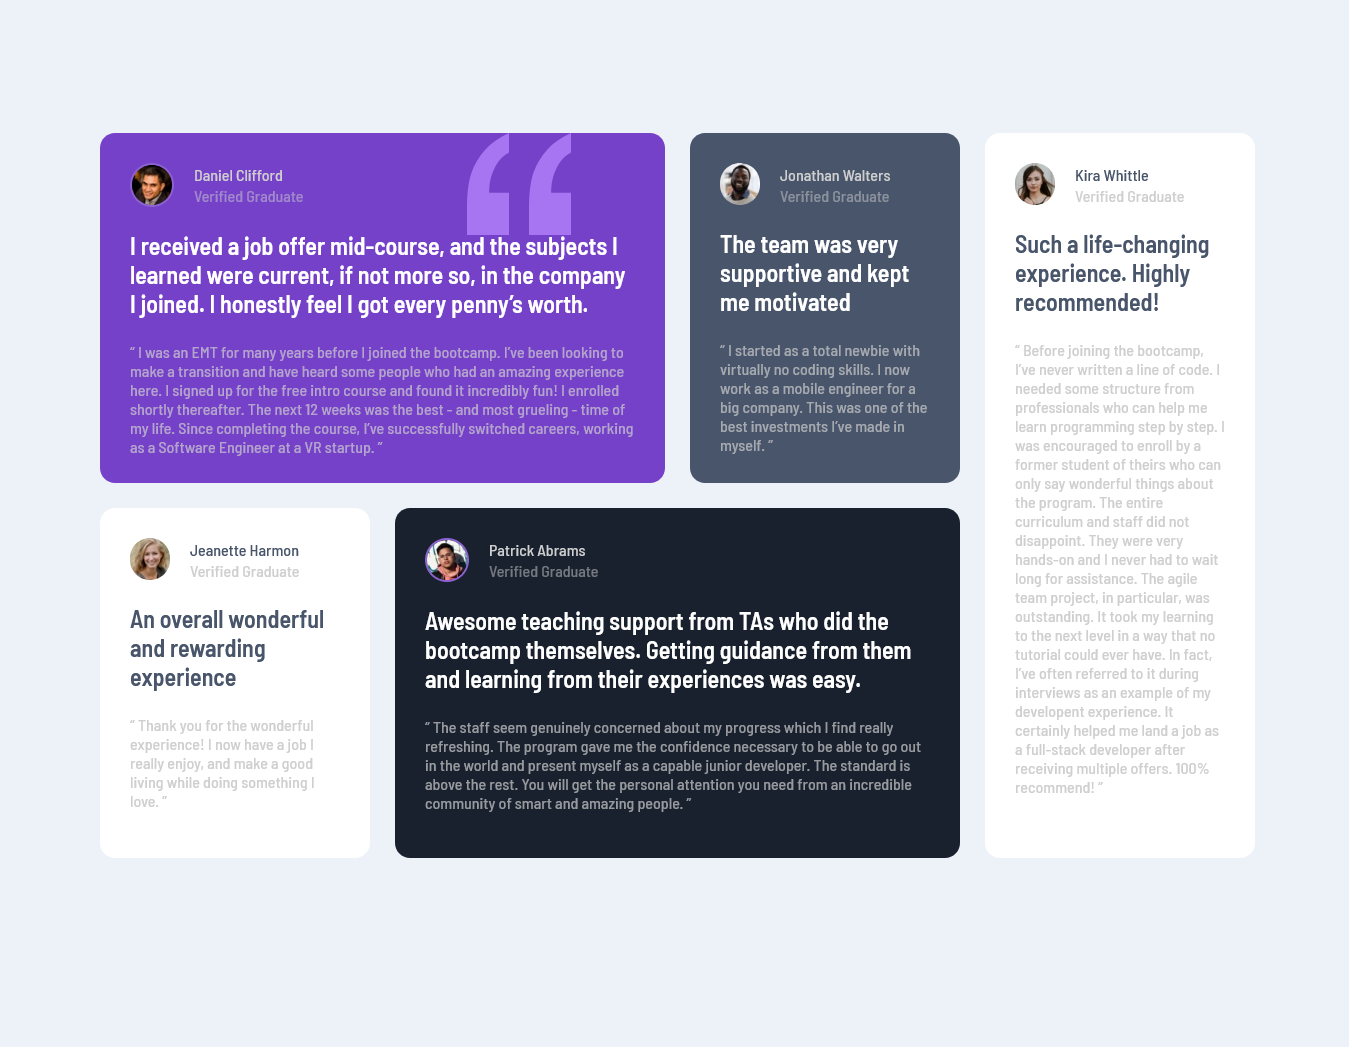
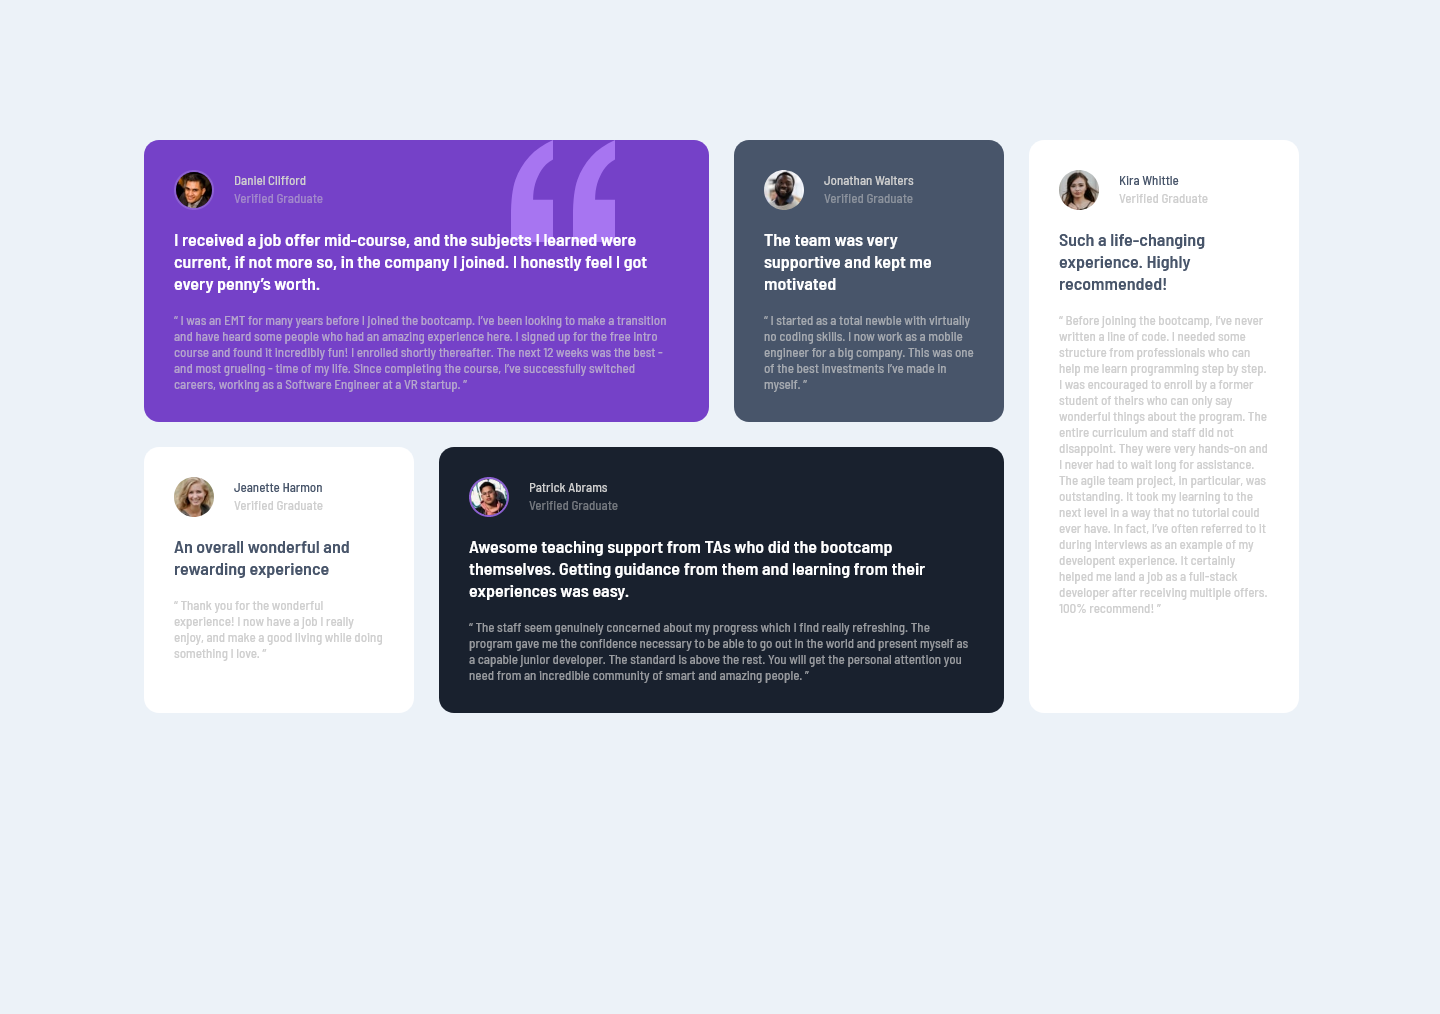
Fixed align of the gird

Changed region(s): [[0.0623, 0.1223, 0.9029, 0.8254]]

diff --git a/public/CSS/style.css b/public/CSS/style.css
@@ -1,16 +1,20 @@
+* {
+    box-sizing: border-box;
+}
 body {
     margin: 0;
     background-color: hsl(210, 46%, 95%);
     font-family: 'Barlow Semi Condensed', sans-serif;
+    height: 875px;
+    width:1440px;
 }
 
 /* Make the section to be gird with 2 rows/ 4 columns*/
 section {
     width: 80%;
-    height: 875px;
-    margin: 10% 100px;
+    margin: 10%;
     display: grid;
-    grid-template: 40% 40%/ repeat(4, minmax(270px, 25%));
+    grid-template: auto auto/ repeat(4, minmax(270px, 25%));
     grid-gap: 25px;
 }
 
@@ -94,35 +98,62 @@ header {
 /* Determines margin and font weight of the text content in header */
 div>* {
     margin: 2px 0 0 20px;
+    font-size: 13px;
     font-weight: 500;
 
 }
 
 /* Determines font weight and size of paragraphs(Comments of persons) inside aside section*/
 aside>p {
-    font-size: 24px;
+    font-size: 18px;
     font-weight: 600;
 
 }
 
+article {
+    font-size: 13px;
+}
 
 /* Change the formating of section(grid), and cells(main tag), 
 and align pattern-quotation icon when width is less or equal 374px*/
 @media screen and (max-width:374px) {
+    body{
+        width:374px;
+    }
     section {
-        width: 90%;
-        margin: 50px auto;
+        width:90%;
+        margin:15% 20px;
         display: block;
 
     }
 
     main {
-        width: 270px;
         margin-bottom: 25px;
     }
 
     svg {
         left: 210px;
+    }
+
+}
+
+@media screen and (max-width:480px) and (min-width:375px) {
+    body{
+        width:480px;
+    }
+    section {
+        width:90%;
+        margin:10% 20px;
+        display: block;
+
+    }
+
+    main {
+        margin-bottom: 25px;
+    }
+
+    svg {
+        left: 300px;
     }
 
 }
